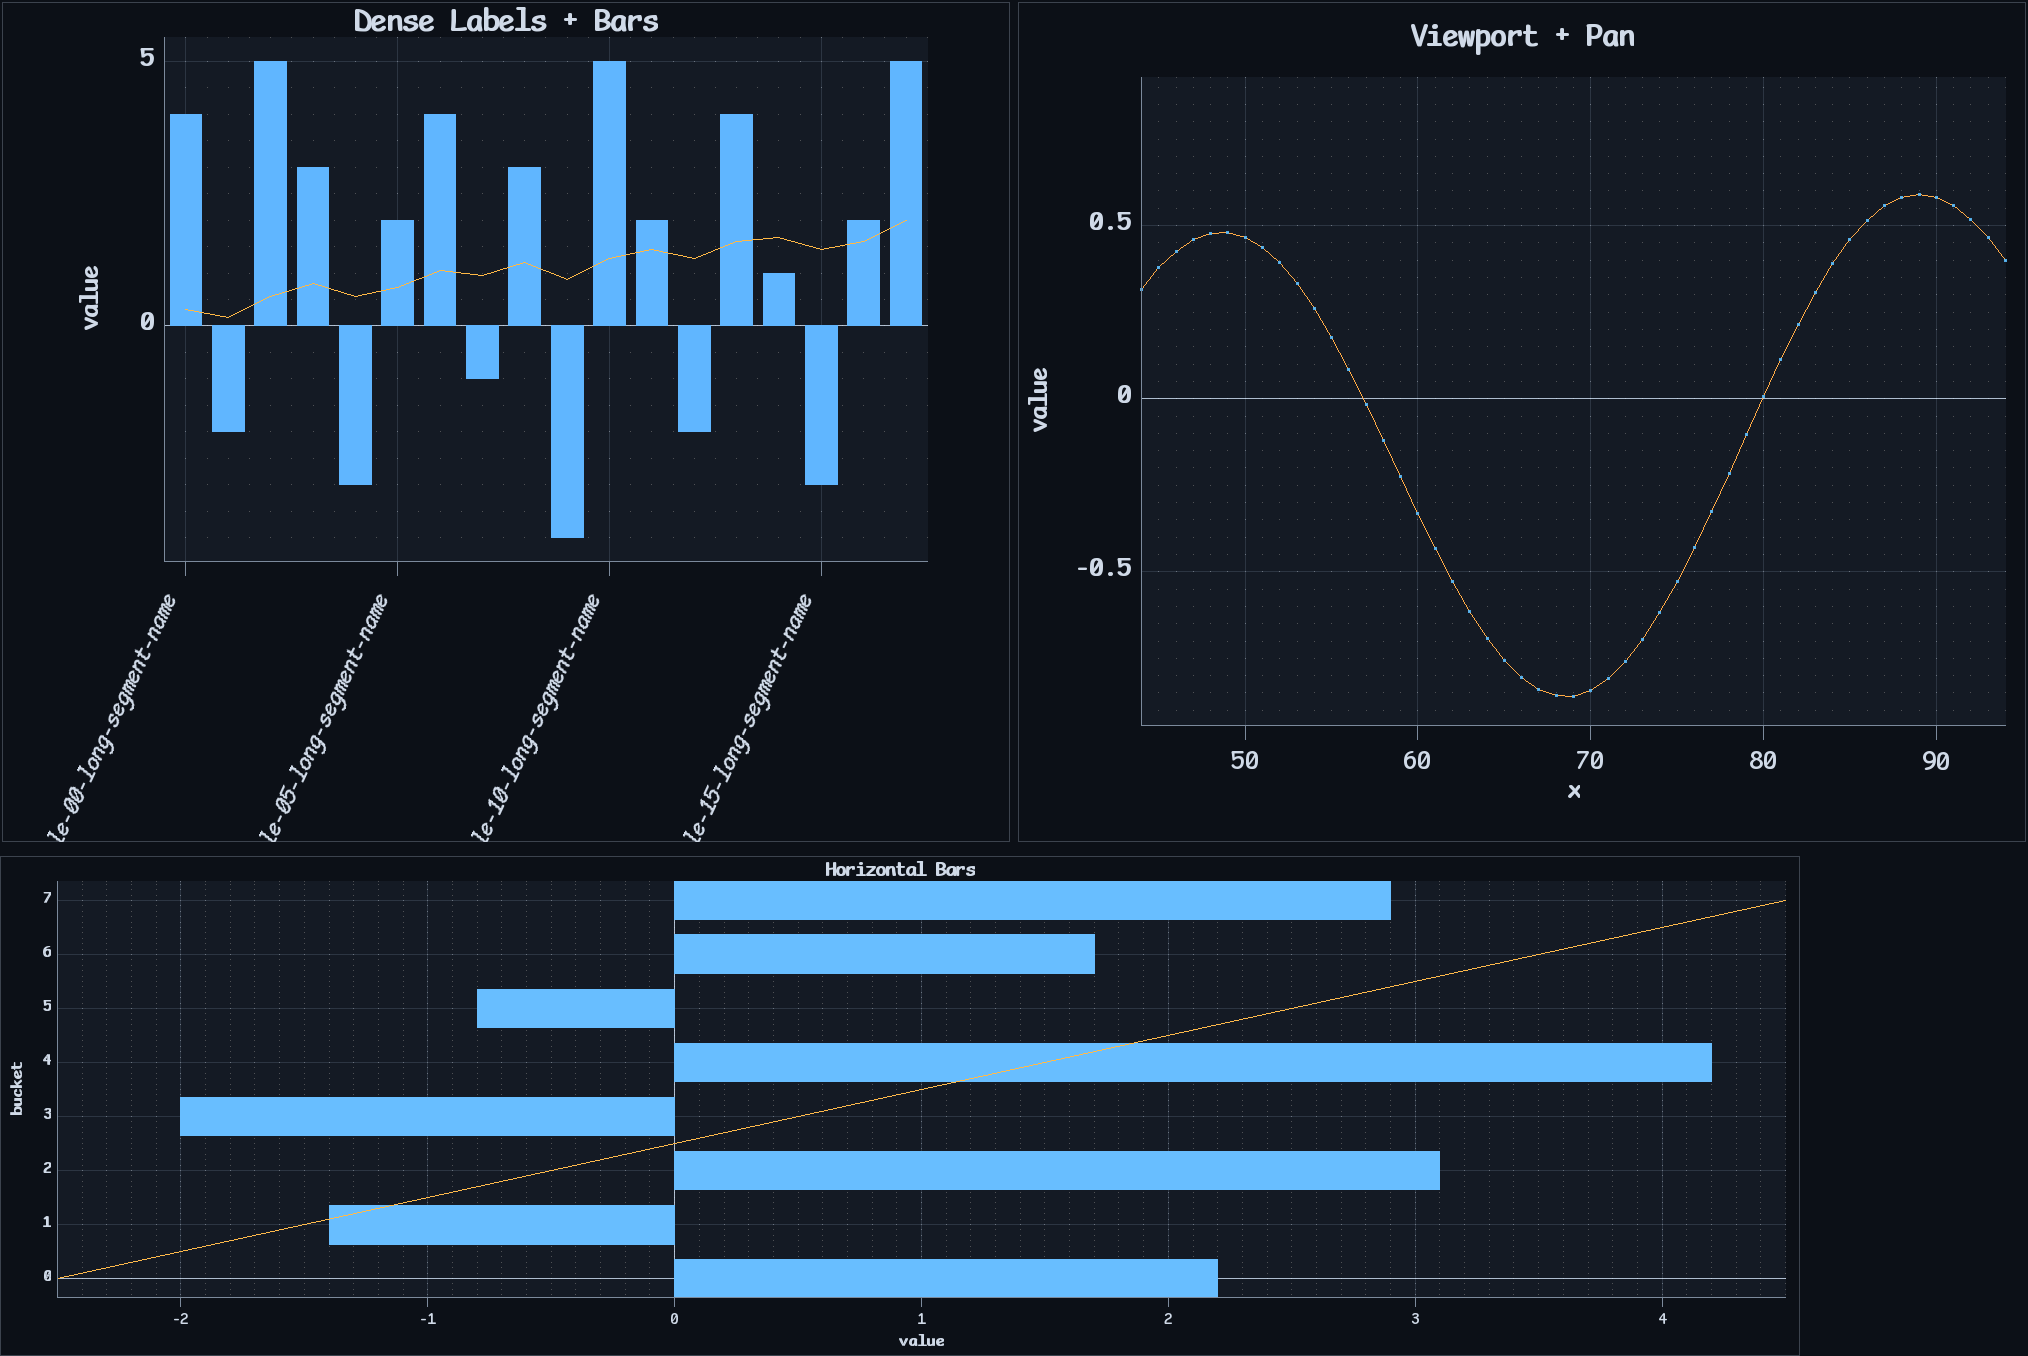
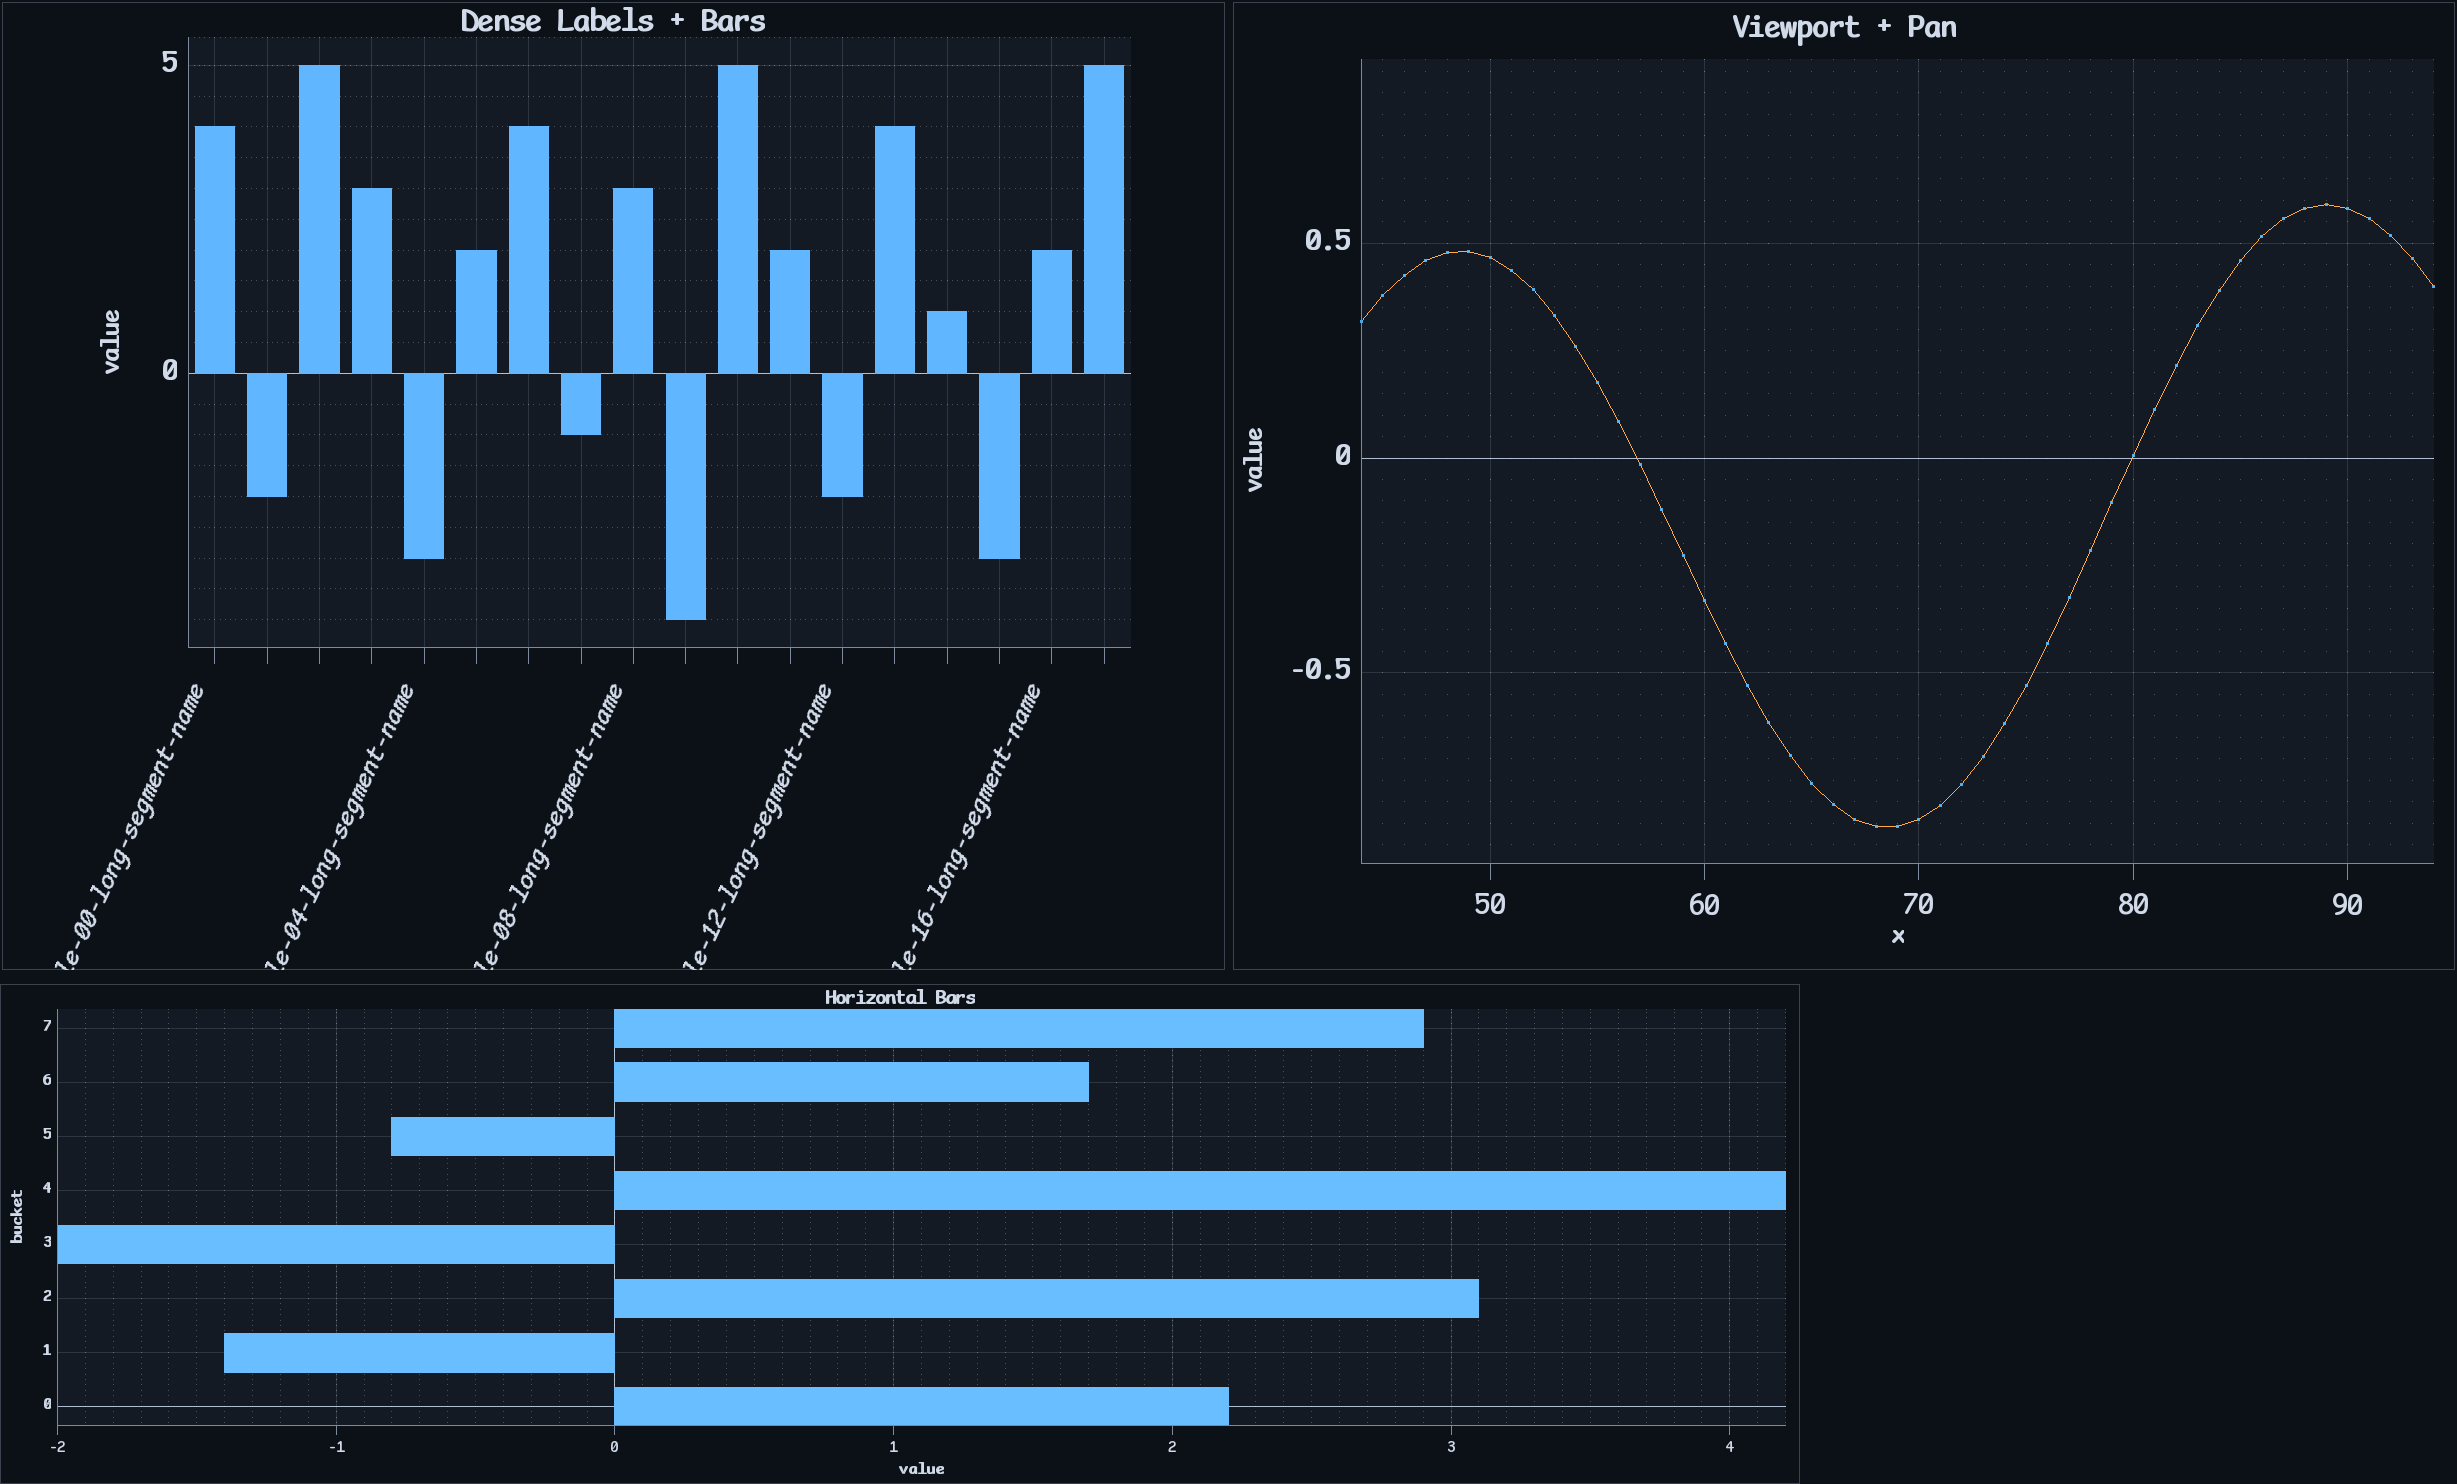
fix(m008): restore per-bar grid ticks and refine demo framing

diff --git a/examples/m008_plot_data_ux_demo.py b/examples/m008_plot_data_ux_demo.py
@@ -20,7 +20,7 @@ from luvatrix_ui.component_schema import BoundingBox
 
 
 def _render_plot_frame(*, panned: bool) -> np.ndarray:
-    top_fig = figure(width=1800, height=760)
+    top_fig = figure(width=1920, height=760)
     left_ax, right_ax = top_fig.subplots(
         1,
         2,
@@ -28,7 +28,7 @@ def _render_plot_frame(*, panned: bool) -> np.ndarray:
         x_label_bottom="x",
         y_label_left="value",
     )
-    left_ax.set_preferred_panel_aspect_ratio(1.20)
+    left_ax.set_preferred_panel_aspect_ratio(1.25)
 
     x_left = np.arange(18, dtype=np.float64)
     y_left = np.asarray([4, -2, 5, 3, -3, 2, 4, -1, 3, -4, 5, 2, -2, 4, 1, -3, 2, 5], dtype=np.float64)
@@ -36,12 +36,12 @@ def _render_plot_frame(*, panned: bool) -> np.ndarray:
     left_ax.set_major_tick_steps(x=1.0)
     left_ax.set_x_tick_labels(labels)
     left_ax.bar(x=x_left, y=y_left, width=0.75, color=(96, 182, 255))
-    left_ax.plot(x=x_left, y=np.cumsum(y_left) * 0.08, color=(255, 184, 70), width=1)
 
     x_right = np.linspace(0.0, 120.0, 121, dtype=np.float64)
     y_right = 0.65 * np.sin(x_right * 0.16) + 0.22 * np.cos(x_right * 0.05)
     right_ax.plot(x=x_right, y=y_right, color=(255, 170, 70), width=1)
     right_ax.scatter(x=x_right, y=y_right, color=(90, 190, 255), size=2, alpha=0.9)
+    right_ax.set_preferred_panel_aspect_ratio(1.6)
     right_ax.set_preferred_plot_aspect_ratio(4.0 / 3.0)
     right_ax.set_viewport(xmin=20.0, xmax=70.0)
     if panned:
@@ -53,7 +53,6 @@ def _render_plot_frame(*, panned: bool) -> np.ndarray:
     widths = np.asarray([2.2, -1.4, 3.1, -2.0, 4.2, -0.8, 1.7, 2.9], dtype=np.float64)
     bottom_ax.set_major_tick_steps(y=1.0)
     bottom_ax.barh(width=widths, y=y_pos, height=0.72, color=(104, 190, 255))
-    bottom_ax.plot(x=np.linspace(-2.5, 4.5, y_pos.size, dtype=np.float64), y=y_pos, color=(255, 186, 75), width=1)
 
     top_rgba = top_fig.to_rgba()
     bottom_rgba = bottom_fig.to_rgba()

diff --git a/luvatrix_plot/figure.py b/luvatrix_plot/figure.py
@@ -981,22 +981,21 @@ class Axes:
         preferred_y_step = self.y_major_tick_step if self.y_major_tick_step is not None else preferred_major_step_from_resolution(y_resolution)
         preferred_x_step = self.x_major_tick_step
         bar_major_x_ticks: np.ndarray | None = None
-        if preferred_x_step is None:
-            bar_x_values: list[np.ndarray] = []
-            for spec in self._series:
-                if spec.style.mode != "bars":
-                    continue
-                mask = np.isfinite(spec.data.x) & np.isfinite(spec.data.y)
-                if np.any(mask):
-                    bar_x_values.append(spec.data.x[mask].astype(np.float64, copy=False))
-            if bar_x_values:
-                bx = np.unique(np.concatenate(bar_x_values))
-                bar_major_x_ticks = bx.copy()
-                if bx.size >= 2:
-                    diffs = np.diff(bx)
-                    positive = diffs[diffs > 1e-12]
-                    if positive.size > 0:
-                        preferred_x_step = float(np.min(positive))
+        bar_x_values: list[np.ndarray] = []
+        for spec in self._series:
+            if spec.style.mode != "bars":
+                continue
+            mask = np.isfinite(spec.data.x) & np.isfinite(spec.data.y)
+            if np.any(mask):
+                bar_x_values.append(spec.data.x[mask].astype(np.float64, copy=False))
+        if bar_x_values:
+            bx = np.unique(np.concatenate(bar_x_values))
+            bar_major_x_ticks = bx.copy()
+            if preferred_x_step is None and bx.size >= 2:
+                diffs = np.diff(bx)
+                positive = diffs[diffs > 1e-12]
+                if positive.size > 0:
+                    preferred_x_step = float(np.min(positive))
 
         # First pass tick estimates for layout sizing.
         provisional_w = max(120, self.figure.width - 80)

diff --git a/tests/test_luvatrix_plot.py b/tests/test_luvatrix_plot.py
@@ -247,6 +247,18 @@ class LuvatrixPlotTests(unittest.TestCase):
         self.assertFalse(np.any(bar_mask[plot_y0 : plot_y0 + plot_h, plot_x0]))
         self.assertFalse(np.any(bar_mask[plot_y0 : plot_y0 + plot_h, plot_x0 + plot_w - 1]))
 
+    def test_bar_ticks_follow_each_bar_even_with_explicit_major_tick_step(self) -> None:
+        x = np.arange(8, dtype=np.float64)
+        y = np.asarray([1.0, -2.0, 3.0, -1.0, 2.0, -3.0, 2.5, 1.5], dtype=np.float64)
+        fig = figure(width=360, height=220)
+        ax = fig.axes(x_label_bottom="x", y_label_left="value")
+        ax.set_major_tick_steps(x=2.0)
+        ax.bar(x=x, y=y, width=0.7, color=(90, 180, 255))
+        _ = fig.to_rgba()
+        tick_x, _ = ax.last_tick_values()
+        self.assertEqual(len(tick_x), len(x))
+        self.assertTrue(all(any(abs(tv - float(xv)) <= 1e-9 for tv in tick_x) for xv in x.tolist()))
+
     def test_bar_rejects_nonpositive_width(self) -> None:
         fig = figure(width=160, height=100)
         ax = fig.axes()

diff --git a/discord/ops/m008_execution_board.md b/discord/ops/m008_execution_board.md
@@ -82,3 +82,9 @@ Last updated: `2026-03-01`
 - `PYTHONPATH=. uv run pytest tests/test_luvatrix_plot.py tests/test_luvatrix_ui_table.py tests/test_plot_app_protocol_example.py`
 - `PYTHONPATH=. uv run python examples/m008_plot_data_ux_demo.py`
 33. `2026-03-01`: `T-801`, `T-802`, and `T-805` moved back to `Review` pending acceptance after latest fixes and demo refresh.
+34. `2026-03-01`: Next feedback cycle started; `T-801` and `T-802` moved from `Review` to `In Progress` for per-bar major tick/grid density restoration and chart-A parity with chart-C bar presentation.
+35. `2026-03-01`: Refined viewport panel framing with stronger right-side panel space while preserving strict `4:3` plot-area aspect on the viewport chart.
+36. `2026-03-01`: Verification rerun passed and demos refreshed:
+- `PYTHONPATH=. uv run pytest tests/test_luvatrix_plot.py tests/test_luvatrix_ui_table.py tests/test_plot_app_protocol_example.py`
+- `PYTHONPATH=. uv run python examples/m008_plot_data_ux_demo.py`
+37. `2026-03-01`: `T-801` and `T-802` moved back to `Review`; `T-805` remains in `Review`.
